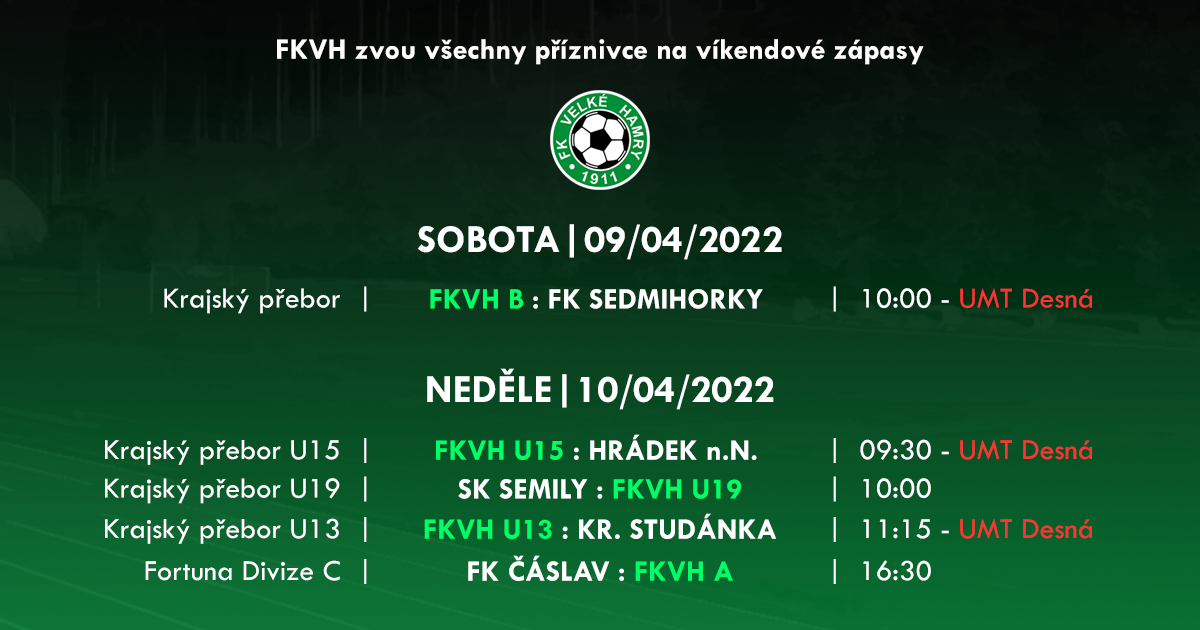
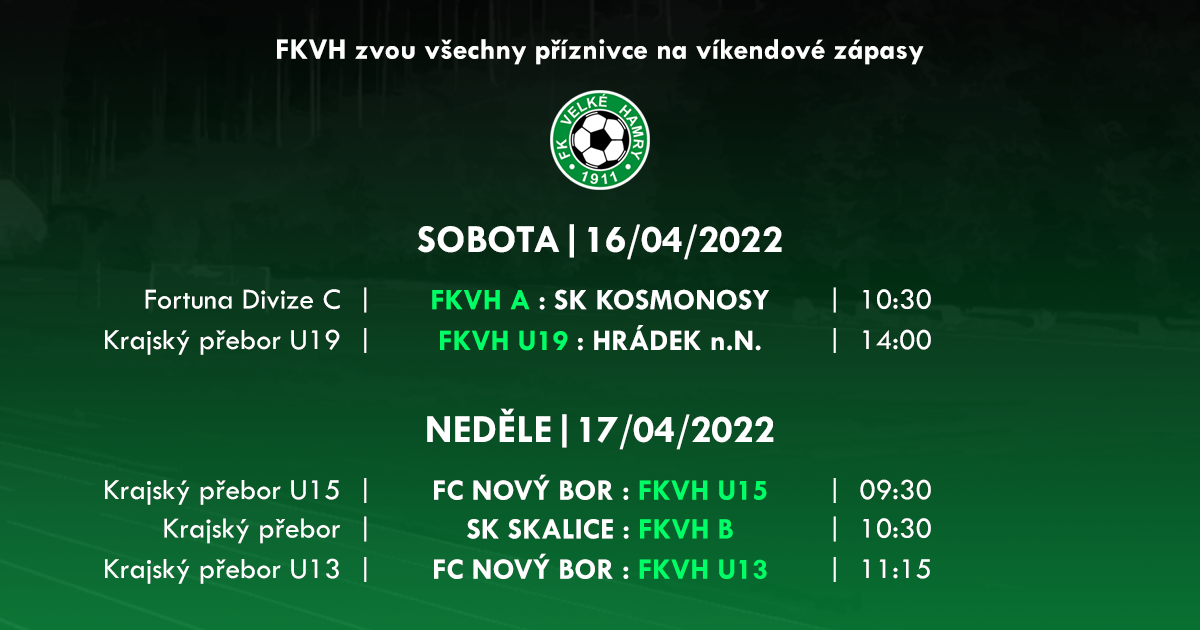
upd

diff --git a/src/index_U19.html b/src/index_U19.html
@@ -173,7 +173,7 @@
 										<div class="col-xs-12 col-sm-12 col-md-12 col-lg-12">
 											<div class="match-description">
 												<div class="liga-name">Krajský přebor U19</div>
-												<div class="liga-location">03.04.2022</div>
+												<div class="liga-location">10.04.2022</div>
 											</div>
 										</div>
 									
@@ -183,21 +183,21 @@
 
 										<div class="col-xs-4 col-sm-4 col-md-4 col-lg-4">
 											<div class="match-club">
-												<img src="/images/logos/logo_fkvh.png" alt="" />
-												<div class="club-name">FK VELKÉ HAMRY</div>
+												<img src="/images/logos/logo_semily.png" alt="" />
+												<div class="club-name">SK SEMILY</div>
 											</div>
 										</div>	
 						
 										<div class="col-xs-4 col-sm-4 col-md-4 col-lg-4">
 											<div class="match-description">
-												<div class="liga-vs">7:3 (1:1)</a></div>
+												<div class="liga-vs">3:5</a></div>
 											</div>
 										</div>									
 
 										<div class="col-xs-4 col-sm-4 col-md-4 col-lg-4">
 											<div class="match-club">
-												<img src="/images/logos/logo_lipa.png" alt="" />
-												<div class="club-name">TJ LOK. ČESKÁ LÍPA</div>
+												<img src="/images/logos/logo_fkvh.png" alt="" />
+												<div class="club-name">FK VELKÉ HAMRY</div>
 											</div>
 										</div>
 
@@ -210,9 +210,9 @@
 												<div class="liga-location">
 													<p>
 														<br /><br />
-														<b>Branky:</b> 26. Šťovíček, 49. Polák (pen.), 53. Schmied, 60. Šťovíček, 63. Schmied, 68. Polák, 91. Novák J. - 17. Kupec (pen.), 90. Zeman, 94. Zeman
+														<b>Branky:</b> 33. Brož, 60. Rubeš, 84. V. Reichl - 6. Šťovíček, 8. Řezníček, 36. Novák J., 52. Šedina, 68. Šedina
 														<br /><br />
-														<b>Sestava:</b> Čapek (67. Šourek) - Hecko, Šťovíček (67. Umlauf), J. Novák, Sochor, F. Skalický, Řezníček, Schmied (74. O. Skalický), Polák, Phung (77. M. Novák), Těhník
+														<b>Sestava:</b> Čapek - Hecko, Sochor, Novák J., Šťovíček (88. Skalický), Řezníček, Schmied, Polák (71. Novák M.), Těhník, Phong (89. Umlauf), Šedina
 														<br />
 													</p>
 												</div>
@@ -258,7 +258,7 @@
 														<td>VÝKOP</td>
 														<td>DOMÁCÍ</td>
 														<td>HOSTÉ</td>
-														<td>HŘIŠTĚ</td>
+														<td>-</td>
 													</tr>
 												</thead>
 												<tbody>
@@ -269,7 +269,7 @@
 														<td>14:00</td>
 														<td>FK Velké Hamry</td>
 														<td>TJ Lok. Česká Lípa</td>
-														<td>tráva Hamry</td>
+														<td>7:3 (1:1)</td>
 													</tr>
 													<tr>
 														<td>18.</td>
@@ -278,7 +278,7 @@
 														<td>10:00</td>
 														<td>SK Semily</td>
 														<td>FK Velké Hamry</td>
-														<td>tráva Semily</td>
+														<td>3:5 (1:3)</td>
 													</tr>
 													<tr>
 														<td>19.</td>

diff --git a/src/index_B.html b/src/index_B.html
@@ -175,7 +175,7 @@
 									<div class="col-xs-12 col-sm-12 col-md-12 col-lg-12">
 										<div class="match-description">
 											<div class="liga-name">Krajský přebor</div>
-											<div class="liga-location">02.04.</div>
+											<div class="liga-location">09.04.</div>
 										</div>
 									</div>
 								
@@ -185,21 +185,21 @@
 
 									<div class="col-xs-4 col-sm-4 col-md-4 col-lg-4">
 										<div class="match-club">
-											<img src="/images/logos/logo_novybor.png" alt="" />
-											<div class="club-name">FC NOVÝ BOR</div>
+											<img src="/images/logos/logo_fkvh.png" alt="" />
+											<div class="club-name">FK VELKÉ HAMRY B</div>
 										</div>
 									</div>	
 					
 									<div class="col-xs-4 col-sm-4 col-md-4 col-lg-4">
 										<div class="match-description">
-											<div class="liga-vs">1:2</div>
+											<div class="liga-vs">3:1</div>
 										</div>
 									</div>									
 
 									<div class="col-xs-4 col-sm-4 col-md-4 col-lg-4">
 										<div class="match-club">
-											<img src="/images/logos/logo_fkvh.png" alt="" />
-											<div class="club-name">FK VELKÉ HAMRY B</div>
+											<img src="/images/logos/logo_sedmihorky.png" alt="" />
+											<div class="club-name">FK SEDMIHORKY</div>
 										</div>
 									</div>
 
@@ -212,9 +212,11 @@
 											<div class="liga-location">
 												<p>
 												<br /><br />
-												<b>Branky:</b> 66. Broschinský - 31. Vosecký, 76. Javůrek M.
+												<b>Branky:</b> 15. Kodr (vl.), 43. Janda, 72. Javůrek M. (pen.) - 40. Kodr
 												<br /><br />
-												<b>Sestava:</b> Masařík - Zounek, Macháček, Javůrek P., Jeřábek - Javůrek M., Šťovíček - Hrušovský (60. Mihálik), Rudolf (82. Hušek), Janda - Vosecký
+												<b>Sestava:</b> Čapek - Hušek, Macháček, Javůrek P., Jeřábek (85. Řezníček) - Javůrek M., Šťovíček - Zounek (80. Schmied), Jelínek (85. Skalický), Janda - Syrovátka (10. Hrušovský)
+												<br /><br />
+												<b>Záznam:</b> <a href="https://1url.cz/@HamSed">TVCOM</a>
 												<br />
 												</p>
 											</div>
@@ -280,13 +282,13 @@
 													<td>10:00</td>
 													<td>FK Velké Hamry</td>
 													<td>FK Sedmihorky</td>
-													<td>UMT Desná</td>
+													<td>3:1 (2:1)</td>
 												</tr>
 												<tr>
 													<td>19.</td>
-													<td>sobota</td>
-													<td>16.04.2022</td>
-													<td>17:00</td>
+													<td>neděle</td>
+													<td>17.04.2022</td>
+													<td>10:30</td>
 													<td>SK Skalice</td>
 													<td>FK Velké Hamry</td>
 													<td>tráva Skalice</td>

diff --git a/src/index_A.html b/src/index_A.html
@@ -173,7 +173,7 @@
 										<div class="col-xs-12 col-sm-12 col-md-12 col-lg-12">
 											<div class="match-description">
 												<div class="liga-name">FORTUNA Divize C</div>
-												<div class="liga-location">03.04.2022</div>
+												<div class="liga-location">10.04.2022</div>
 											</div>
 										</div>
 									
@@ -183,21 +183,21 @@
 
 										<div class="col-xs-4 col-sm-4 col-md-4 col-lg-4">
 											<div class="match-club">
-												<img src="/images/logos/logo_fkvh.png" alt="" />
-												<div class="club-name">FK VELKÉ HAMRY</div>
+												<img src="/images/logos/logo_caslav.png" alt="" />
+												<div class="club-name">FK ČÁSLAV</div>
 											</div>
 										</div>	
 						
 										<div class="col-xs-4 col-sm-4 col-md-4 col-lg-4">
 											<div class="match-description">
-												<div class="liga-vs">1:1 (1:1)</div>
+												<div class="liga-vs">0:0</div>
 											</div>
 										</div>									
 
 										<div class="col-xs-4 col-sm-4 col-md-4 col-lg-4">
 											<div class="match-club">
-												<img src="/images/logos/logo_letohrad.png" alt="" />
-												<div class="club-name">FK LETOHRAD</div>
+												<img src="/images/logos/logo_fkvh.png" alt="" />
+												<div class="club-name">FK VELKÉ HAMRY</div>
 											</div>
 										</div>
 
@@ -210,11 +210,11 @@
 												<div class="liga-location">
 													<p>
 													<br /><br />
-													<b>Branky:</b> 5. Štěpánek - 21. Zbudil
+													<b>Branky:</b> 
 													<br /><br />
-													<b>Sestava:</b> Klement - Štěpánek, Váňa, Černý, Šidlo - Krejčík, Linka - Kováčik (76. Šťovíček), Šohaj, Kozák (76. Rudolf) - Žitka  (12. Syrovátka) 
+													<b>Sestava:</b> Klement - Štěpánek, Váňa, Šidlo, Kozák - Krejčík, Šohaj, Linka - Kováčik (84. Javůrek M.), Rudolf (64. Jelínek) - Černý 
 													<br /><br />
-													<b>Záznam:</b> <a href="https://1url.cz/@HamLet">TVCOM</a>
+													<b>Záznam:</b> <a href="https://1url.cz/@CasHam">TVCOM</a>
 													<br />
 													</p>
 												</div>
@@ -306,7 +306,7 @@
 														<td>16:30</td>
 														<td>FK Čáslav</td>
 														<td>FK Velké Hamry</td>
-														<td>tráva Čáslav</td>
+														<td>0:0</td>
 													</tr>
 													<tr>
 														<td>21.</td>

diff --git a/src/index_U13.html b/src/index_U13.html
@@ -424,7 +424,7 @@
 													<td>11:15</td>
 													<td>Velké Hamry</td>
 													<td>Kr.Studánka/Slovan LB</td>
-													<td>UMT Desná</td>
+													<td>0:7 (0:4)</td>
 													<td></td>
 												</tr>
 												<tr>

diff --git a/src/index_U15.html b/src/index_U15.html
@@ -423,7 +423,7 @@
 													<td>09:30</td>
 													<td>Velké Hamry</td>
 													<td>Slovan Hrádek n.N.</td>
-													<td>UMT Desná</td>
+													<td>0:15 (0:8)</td>
 													<td></td>
 												</tr>
 												<tr>
